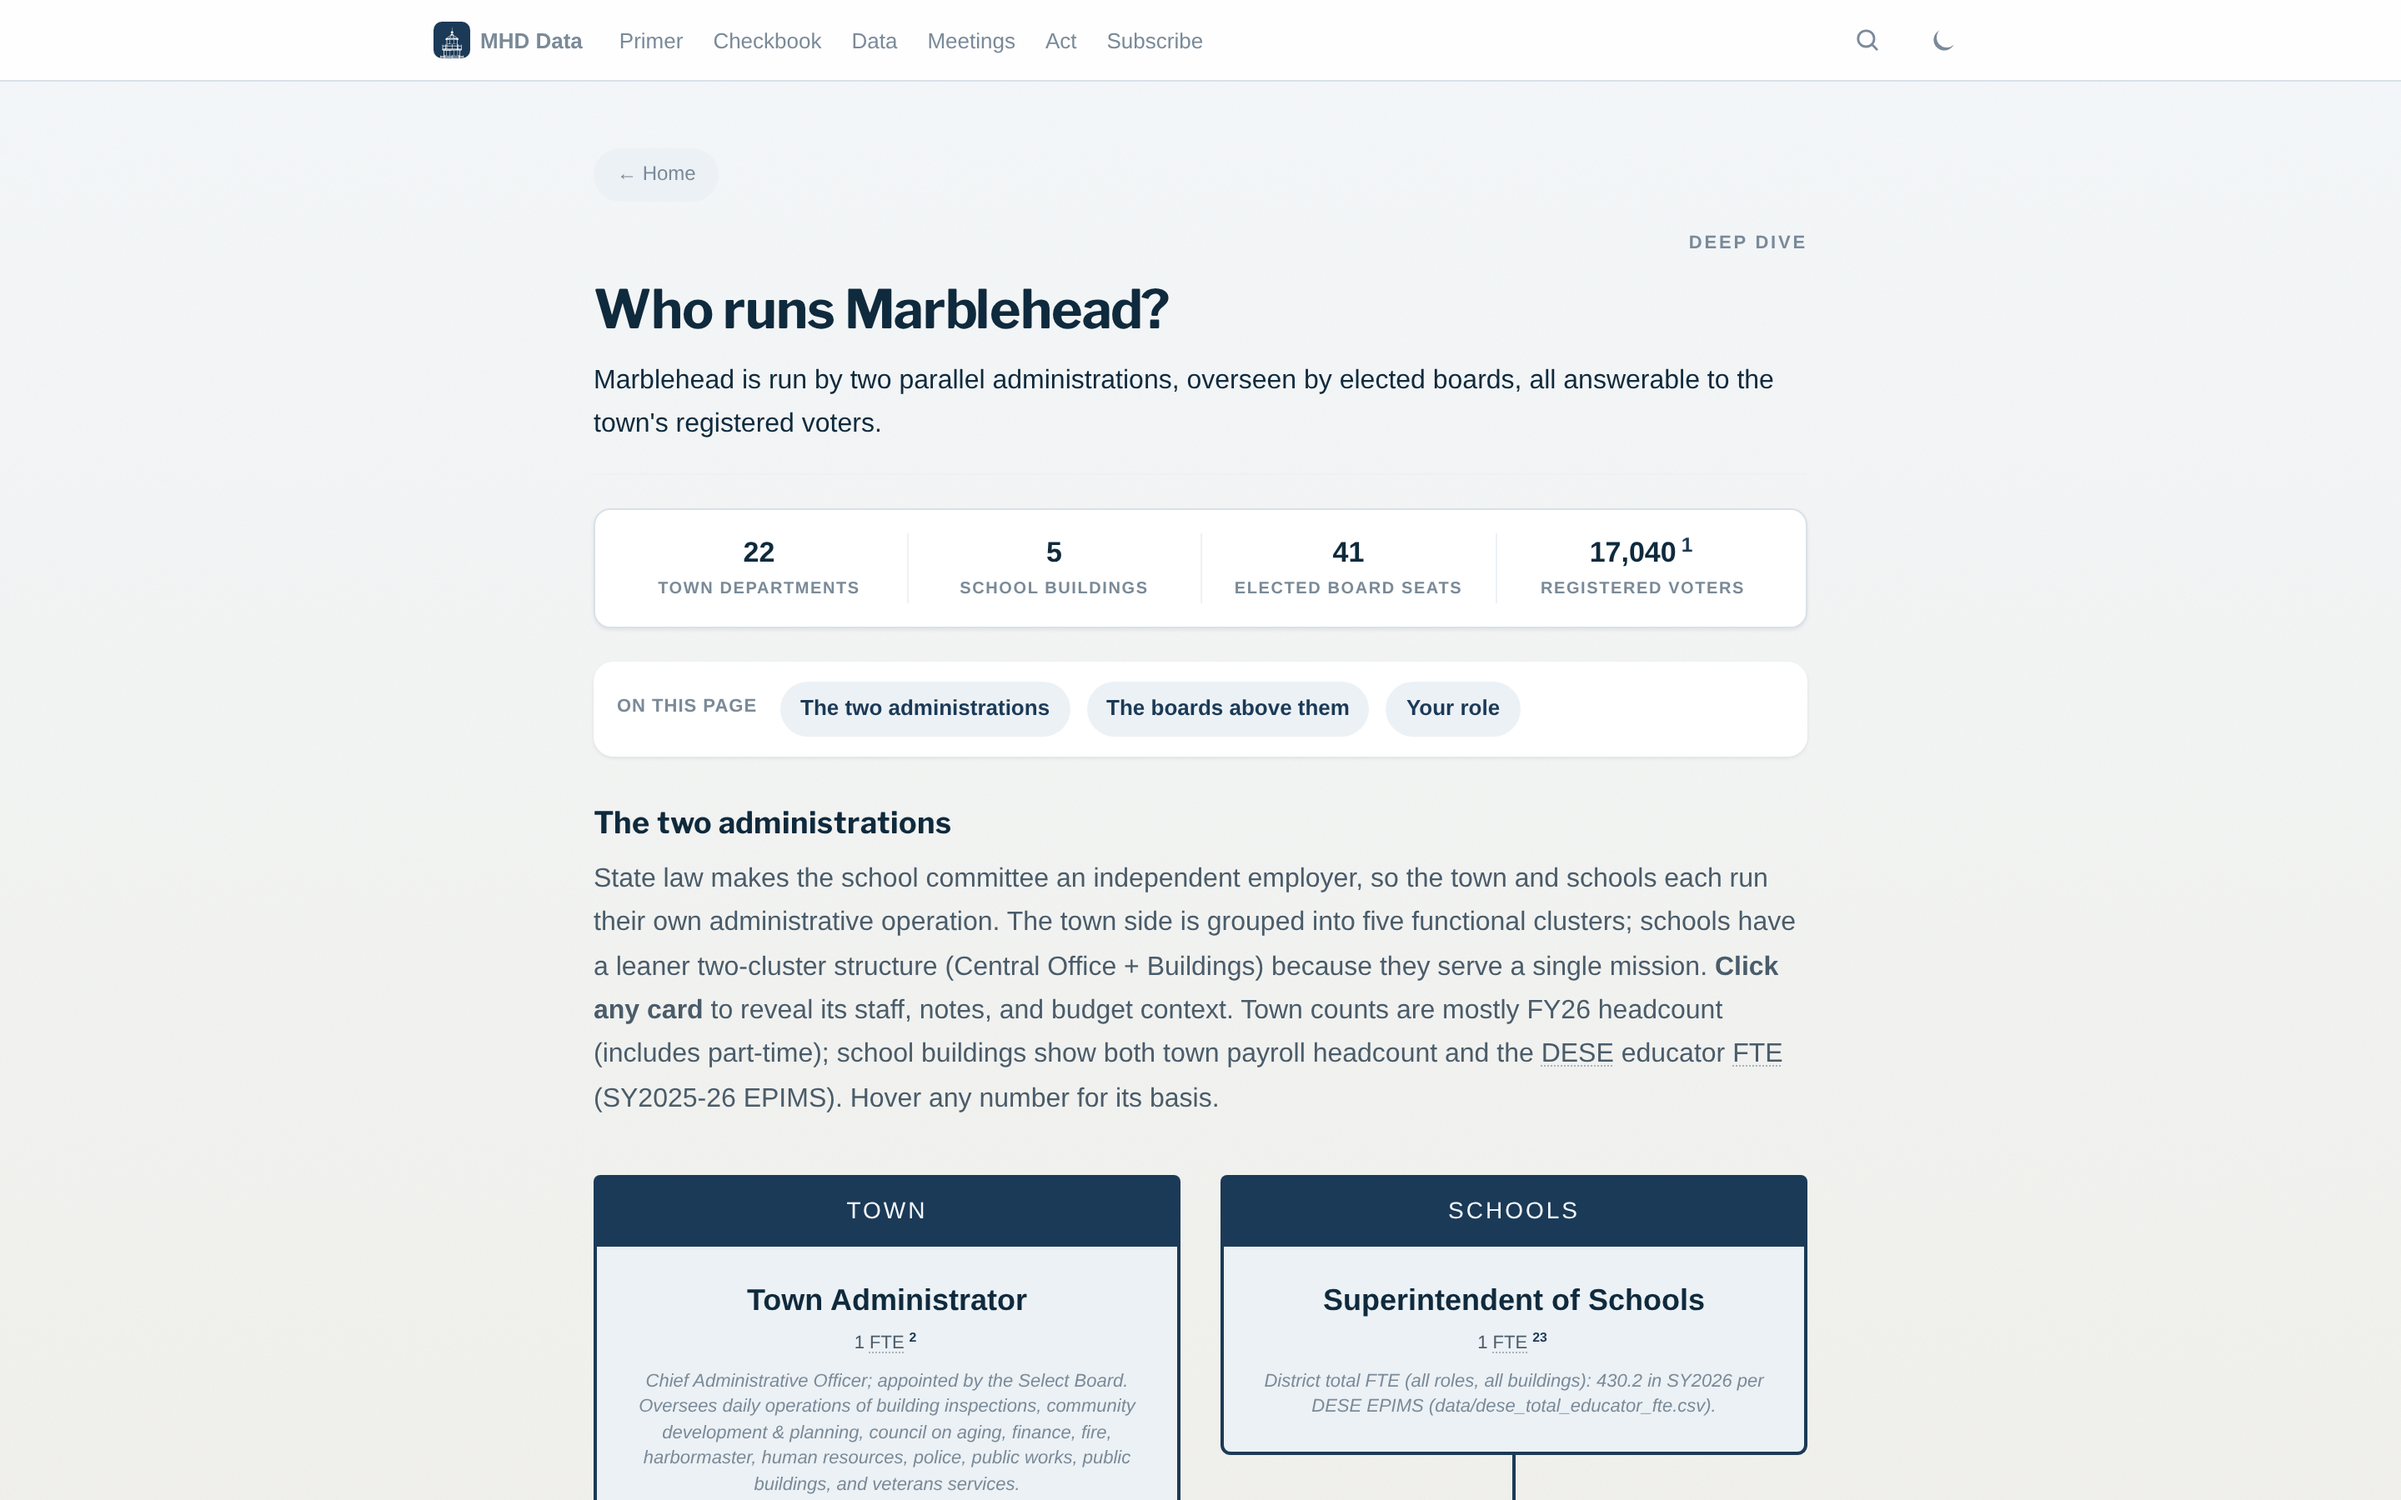
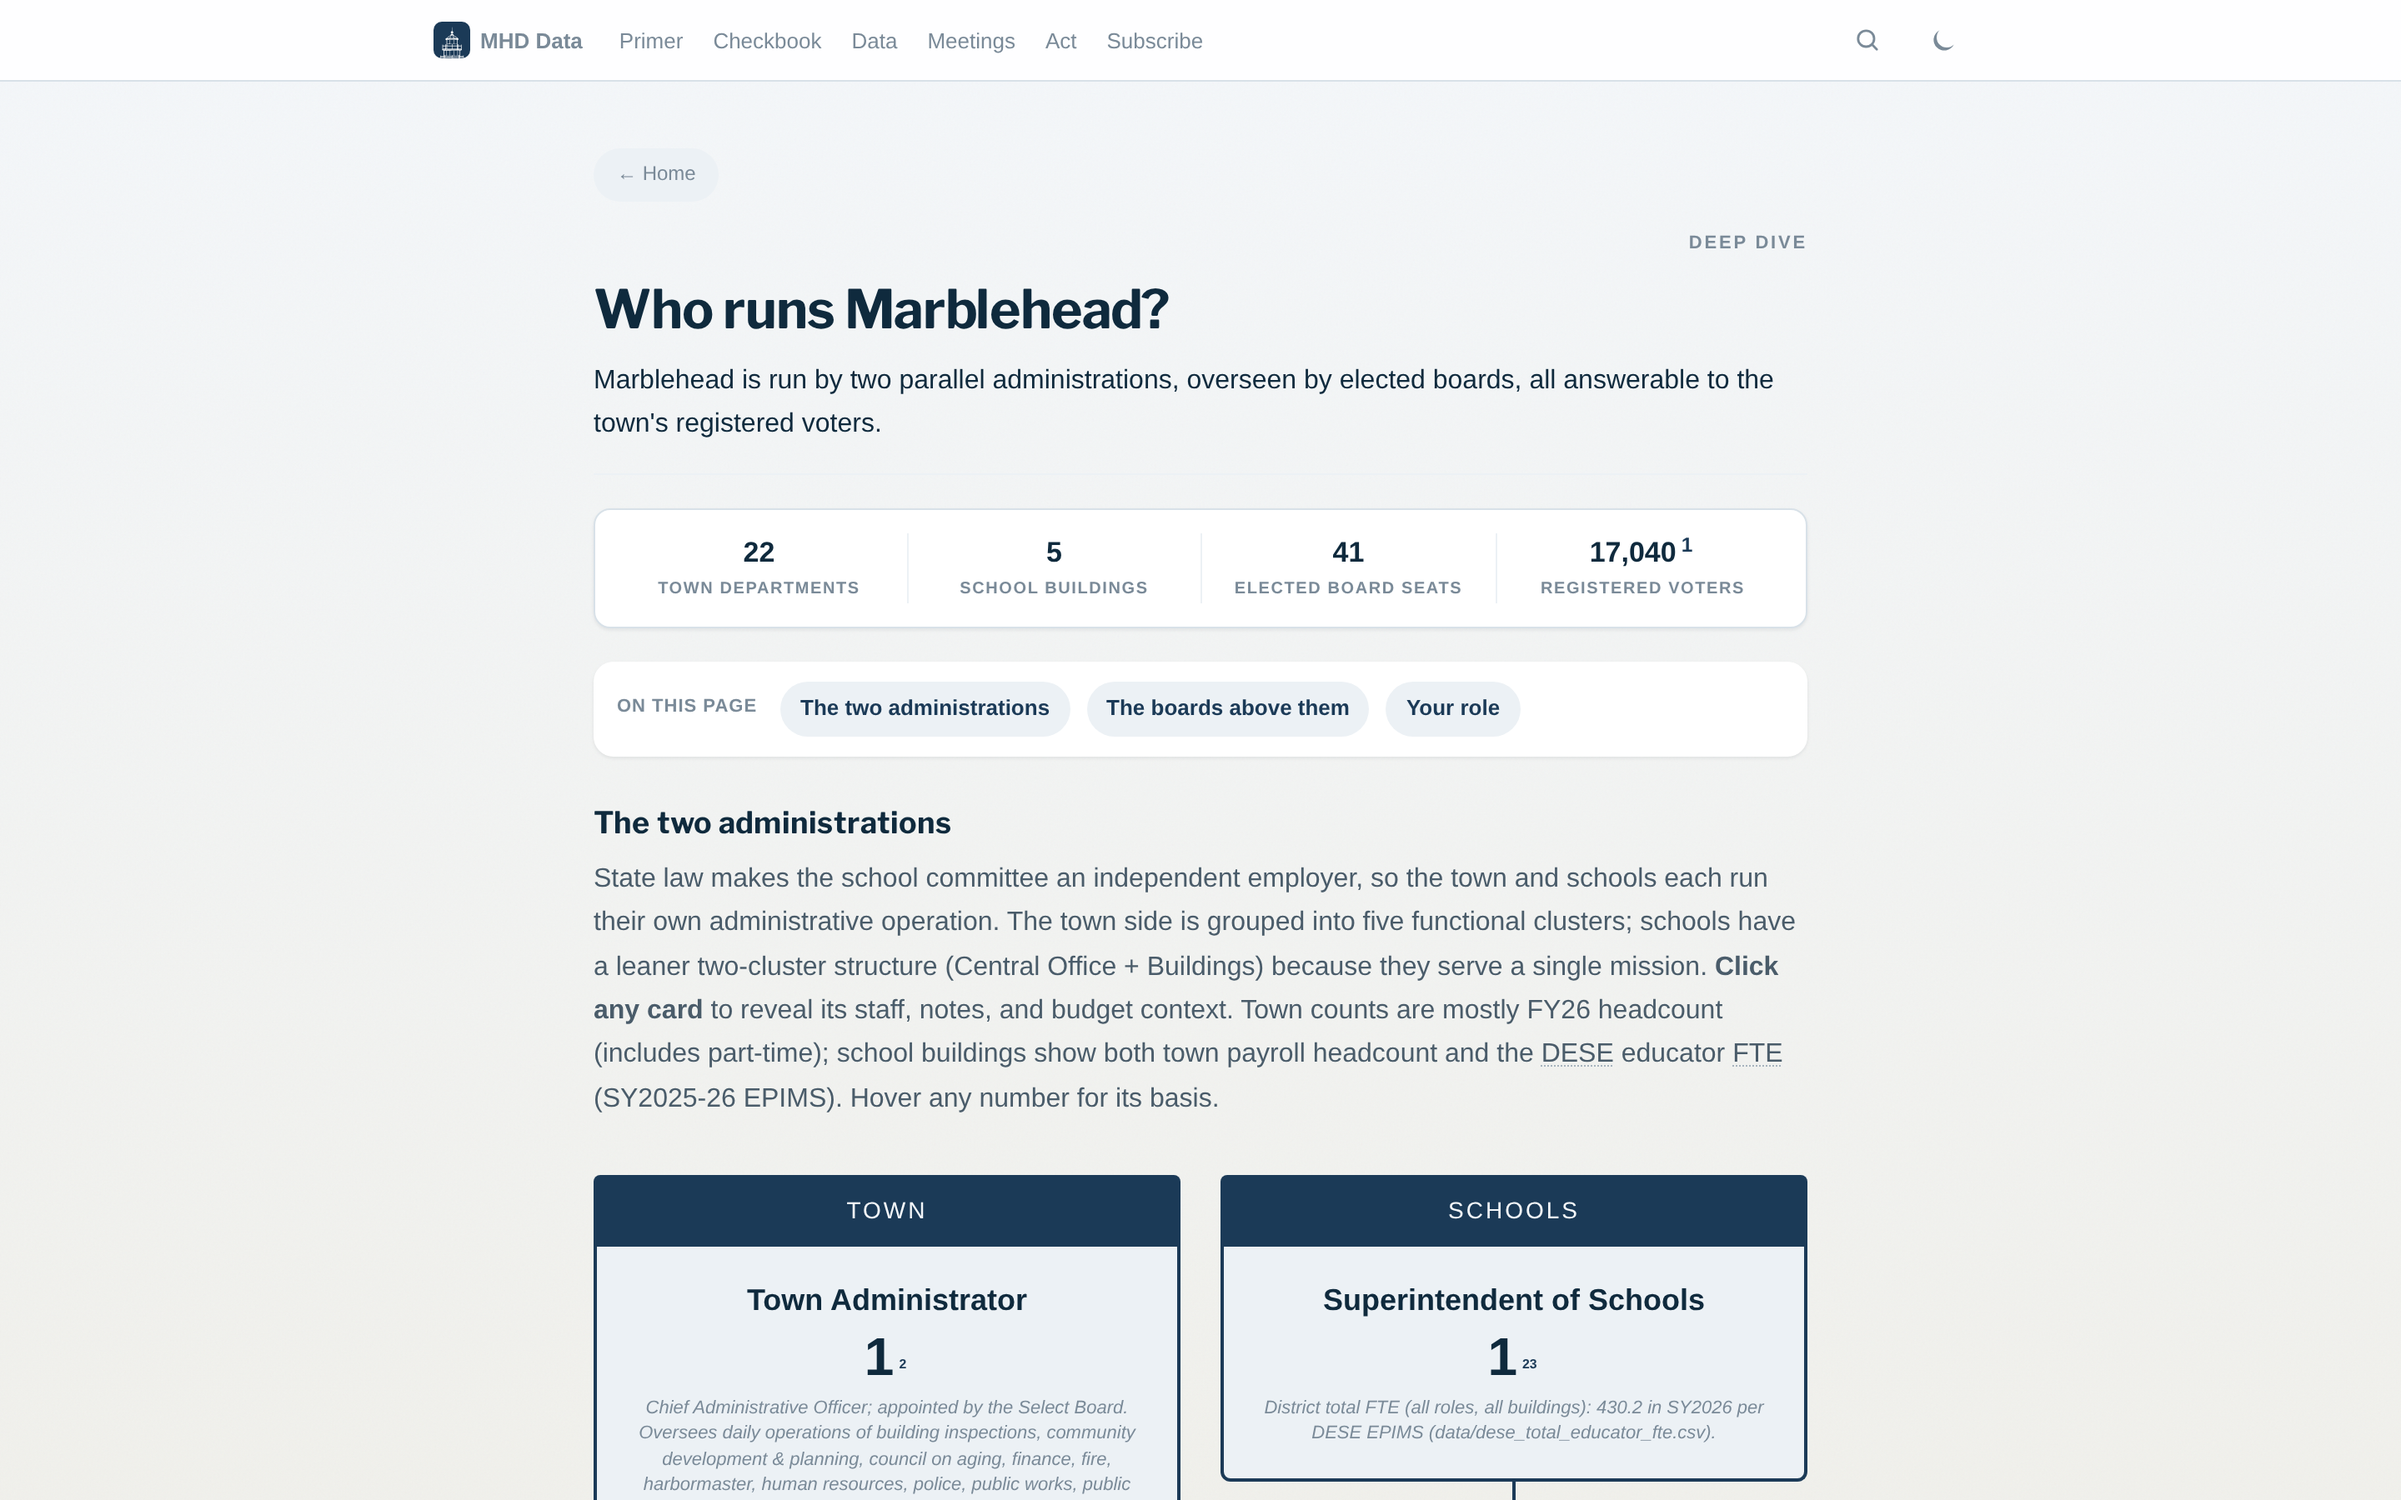
Bigger FTE numbers per card; sort clusters by size
- Replaced "9 FTE" / "68 FTE" labels on every card with a single large
  number rendered at 1.5rem (2rem on root cards). Cluster headers
  retain "X FTE" so the unit is clear.
- Sorted town departments within each cluster by FTE descending so the
  biggest function in each cluster reads first.
- Same sort applied to school central office and buildings.
- School building cards show "125" big with "(118.3 educator FTE)" as
  secondary text since both numbers matter there.

Generated with [Claude Code](https://claude.ai/code)
via [Happy](https://happy.engineering)

Changed region(s): [[0.25, 0.8711, 0.4688, 0.9956], [0.5, 0.8711, 0.75, 0.9956]]

diff --git a/org-chart.html b/org-chart.html
@@ -45,12 +45,13 @@ og_url: https://marbleheaddata.org/org-chart.html
     <div class="org-column-header">Town</div>
     <div class="org-root">
       <span class="org-root-title">{{ site.data.org_chart.town.head.title }}</span>
-      <span class="org-card-fte">{{ site.data.org_chart.town.head.fte }} <abbr class="g" title="Full-Time Equivalent">FTE</abbr><sup class="cite" data-href="{{ site.data.org_chart.town.head.source_url }}" data-source="{{ site.data.org_chart.town.head.source_label }}"></sup></span>
+      <span class="org-card-fte"><span class="org-card-num">{{ site.data.org_chart.town.head.fte }}</span><sup class="cite" data-href="{{ site.data.org_chart.town.head.source_url }}" data-source="{{ site.data.org_chart.town.head.source_label }}"></sup></span>
       {% if site.data.org_chart.town.head.note %}<p class="org-card-note">{{ site.data.org_chart.town.head.note }}</p>{% endif %}
     </div>
 
     {% for cluster_name in site.data.org_chart.town.cluster_order %}
-    {% assign cluster_depts = site.data.org_chart.town.departments | where: "cluster", cluster_name %}
+    {% assign cluster_depts_raw = site.data.org_chart.town.departments | where: "cluster", cluster_name %}
+    {% assign cluster_depts = cluster_depts_raw | sort: "fte" | reverse %}
     {% assign cluster_total = 0 %}
     {% for d in cluster_depts %}{% if d.fte %}{% assign cluster_total = cluster_total | plus: d.fte %}{% endif %}{% endfor %}
     <div class="org-cluster">
@@ -66,10 +67,9 @@ og_url: https://marbleheaddata.org/org-chart.html
             <span class="org-card-head">{{ dept.head_title }}</span>
             <span class="org-card-fte">
               {% if dept.fte %}
-                <span{% if dept.fte_basis %} title="{{ dept.fte_basis }}"{% endif %}>{{ dept.fte }}</span>
-                <abbr class="g" title="Full-Time Equivalent">FTE</abbr>
+                <span class="org-card-num"{% if dept.fte_basis %} title="{{ dept.fte_basis }}"{% endif %}>{{ dept.fte }}</span>
               {% else %}
-                <span title="{{ dept.fte_null_reason }}">&ndash;</span>
+                <span class="org-card-num" title="{{ dept.fte_null_reason }}">&ndash;</span>
               {% endif %}
               <sup class="cite" data-href="{{ dept.source_url }}" data-source="{{ dept.source_label }}"></sup>
             </span>
@@ -93,7 +93,7 @@ og_url: https://marbleheaddata.org/org-chart.html
     <div class="org-column-header">Schools</div>
     <div class="org-root">
       <span class="org-root-title">{{ site.data.org_chart.schools.head.title }}</span>
-      <span class="org-card-fte">{{ site.data.org_chart.schools.head.fte }} <abbr class="g" title="Full-Time Equivalent">FTE</abbr><sup class="cite" data-href="{{ site.data.org_chart.schools.head.source_url }}" data-source="{{ site.data.org_chart.schools.head.source_label }}"></sup></span>
+      <span class="org-card-fte"><span class="org-card-num">{{ site.data.org_chart.schools.head.fte }}</span><sup class="cite" data-href="{{ site.data.org_chart.schools.head.source_url }}" data-source="{{ site.data.org_chart.schools.head.source_label }}"></sup></span>
       {% if site.data.org_chart.schools.head.note %}<p class="org-card-note">{{ site.data.org_chart.schools.head.note }}</p>{% endif %}
     </div>
 
@@ -104,18 +104,18 @@ og_url: https://marbleheaddata.org/org-chart.html
         <span class="org-cluster-name">Central Office</span>
         <span class="org-cluster-total">{{ co_total }} <abbr class="g" title="Full-Time Equivalent">FTE</abbr></span>
       </div>
+      {% assign co_sorted = site.data.org_chart.schools.central_office | sort: "fte" | reverse %}
       <div class="org-cluster-grid">
-        {% for dept in site.data.org_chart.schools.central_office %}
+        {% for dept in co_sorted %}
         <details class="org-card">
           <summary>
             <span class="org-card-dept">{{ dept.name }}</span>
             <span class="org-card-head">{{ dept.head_title }}</span>
             <span class="org-card-fte">
               {% if dept.fte %}
-                <span{% if dept.fte_basis %} title="{{ dept.fte_basis }}"{% endif %}>{{ dept.fte }}</span>
-                <abbr class="g" title="Full-Time Equivalent">FTE</abbr>
+                <span class="org-card-num"{% if dept.fte_basis %} title="{{ dept.fte_basis }}"{% endif %}>{{ dept.fte }}</span>
               {% else %}
-                <span title="{{ dept.fte_null_reason }}">&ndash;</span>
+                <span class="org-card-num" title="{{ dept.fte_null_reason }}">&ndash;</span>
               {% endif %}
               <sup class="cite" data-href="{{ dept.source_url }}" data-source="{{ dept.source_label }}"></sup>
             </span>
@@ -140,18 +140,19 @@ og_url: https://marbleheaddata.org/org-chart.html
         <span class="org-cluster-name">School Buildings</span>
         <span class="org-cluster-total" title="FY26 headcount sum across the five operating buildings.">{{ sb_total }} <abbr class="g" title="Full-Time Equivalent">FTE</abbr></span>
       </div>
+      {% assign buildings_sorted = site.data.org_chart.schools.buildings | sort: "fte" | reverse %}
       <div class="org-cluster-grid">
-        {% for school in site.data.org_chart.schools.buildings %}
+        {% for school in buildings_sorted %}
         <details class="org-card">
           <summary>
             <span class="org-card-dept">{{ school.name }}</span>
             <span class="org-card-head">{{ school.head_title }}</span>
             <span class="org-card-fte">
               {% if school.fte %}
-                <span{% if school.fte_basis %} title="{{ school.fte_basis }}"{% endif %}>{{ school.fte }}</span> headcount
-                {% if school.dese_fte %} &middot; <span{% if school.dese_fte_basis %} title="{{ school.dese_fte_basis }}"{% endif %}>{{ school.dese_fte }}</span> <abbr class="g" title="Full-Time Equivalent">FTE</abbr>{% endif %}
+                <span class="org-card-num"{% if school.fte_basis %} title="{{ school.fte_basis }}"{% endif %}>{{ school.fte }}</span>
+                {% if school.dese_fte %}<span class="org-card-num-sub" title="{{ school.dese_fte_basis }}">({{ school.dese_fte }} educator <abbr class="g" title="Full-Time Equivalent">FTE</abbr>)</span>{% endif %}
               {% else %}
-                <span title="{{ school.fte_null_reason }}">&ndash;</span>
+                <span class="org-card-num" title="{{ school.fte_null_reason }}">&ndash;</span>
               {% endif %}
               <sup class="cite" data-href="{{ school.source_url }}" data-source="{{ school.source_label }}"></sup>
             </span>
@@ -189,7 +190,7 @@ og_url: https://marbleheaddata.org/org-chart.html
       <span class="org-card-dept">{{ ent.name }}</span>
       <span class="org-card-head">{{ ent.head_title }}</span>
       <span class="org-card-fte">
-        {% if ent.fte %}<span{% if ent.fte_basis %} title="{{ ent.fte_basis }}"{% endif %}>{{ ent.fte }} employees</span>{% else %}<span title="{{ ent.fte_null_reason }}">&ndash;</span>{% endif %}
+        {% if ent.fte %}<span class="org-card-num"{% if ent.fte_basis %} title="{{ ent.fte_basis }}"{% endif %}>{{ ent.fte }}</span> <span class="org-card-num-sub">employees</span>{% else %}<span class="org-card-num" title="{{ ent.fte_null_reason }}">&ndash;</span>{% endif %}
         <sup class="cite" data-href="{{ ent.source_url }}" data-source="{{ ent.source_label }}"></sup>
       </span>
     </summary>

diff --git a/assets/site.css b/assets/site.css
@@ -4462,6 +4462,27 @@ body.me-subscription-page .ms-pref button[type="submit"] { background: var(--c-n
 .org-card-fte {
   font-size: 0.6875rem;
   color: var(--c-text-sub);
+  display: flex;
+  align-items: baseline;
+  gap: 6px;
+  margin-top: 4px;
+}
+
+.org-card-num {
+  font-size: 1.5rem;
+  font-weight: 700;
+  color: var(--c-text);
+  line-height: 1;
+  font-feature-settings: "tnum";
+}
+
+.org-card-num-sub {
+  font-size: 0.6875rem;
+  color: var(--c-text-sub);
+}
+
+.org-root .org-card-num {
+  font-size: 2rem;
 }
 
 .org-card-note {
